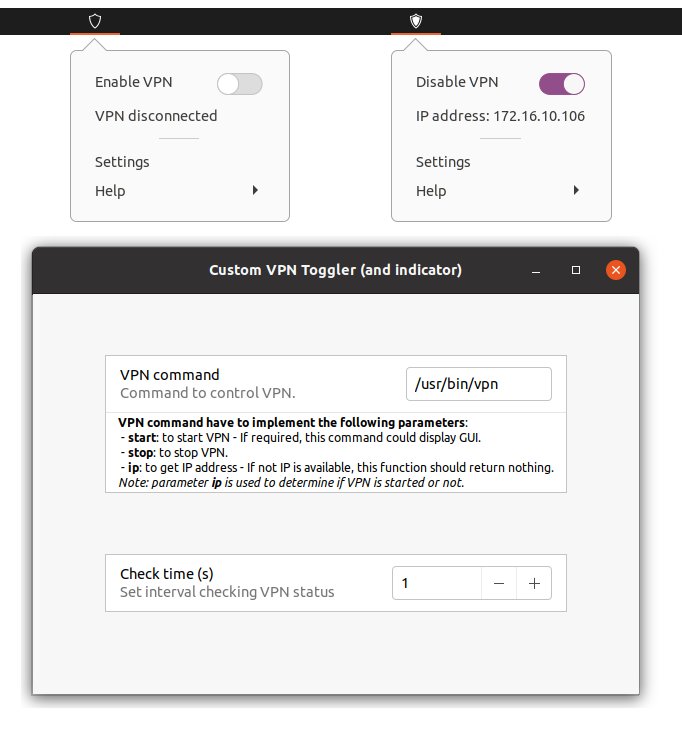
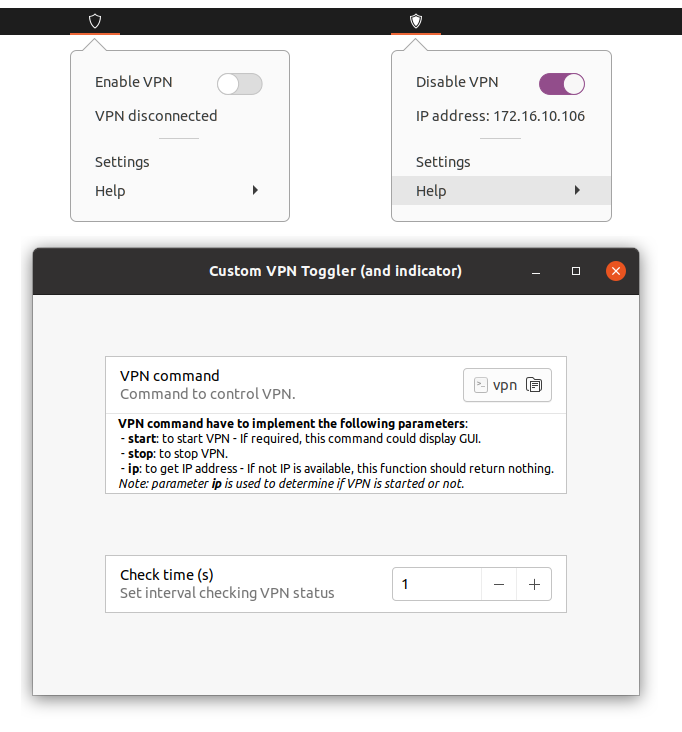
Use file browser to select vpn script

diff --git a/preferenceswidget.js b/preferenceswidget.js
@@ -28,7 +28,7 @@ imports.gi.versions.GLib = "2.0";
 imports.gi.versions.GObject = "2.0";
 imports.gi.versions.Gtk = "3.0";
 
-const {Gdk, Gio, GLib, GObject, Gtk} = imports.gi
+const { Gdk, Gio, GLib, GObject, Gtk } = imports.gi
 
 String.format = imports.format.format;
 
@@ -40,10 +40,10 @@ const _ = Gettext.gettext;
 
 var ColorSetting = GObject.registerClass(
     {
-        GTypeName: (Extension.uuid + '.ColorSetting').replace(/[\W_]+/g,'_')
+        GTypeName: (Extension.uuid + '.ColorSetting').replace(/[\W_]+/g, '_')
     },
-    class ColorSetting extends Gtk.Button{
-        _init(settings, keyName, params={}) {
+    class ColorSetting extends Gtk.Button {
+        _init(settings, keyName, params = {}) {
             super._init({
                 can_focus: true,
                 width_request: 132,
@@ -58,23 +58,23 @@ var ColorSetting = GObject.registerClass(
             this.background_color.parse(string_color);
 
             this.drawingArea = new Gtk.DrawingArea();
-            this.drawingArea.connect('draw', (widget, cr)=>{
+            this.drawingArea.connect('draw', (widget, cr) => {
                 cr.setSourceRGBA(this.background_color.red,
-                                 this.background_color.green,
-                                 this.background_color.blue,
-                                 this.background_color.alpha);
+                    this.background_color.green,
+                    this.background_color.blue,
+                    this.background_color.alpha);
                 cr.rectangle(0,
-                             0,
-                             this.get_allocated_width(),
-                             this.get_allocated_height());
+                    0,
+                    this.get_allocated_width(),
+                    this.get_allocated_height());
                 cr.fill();
             });
             this.add(this.drawingArea);
 
-            this.connect('clicked', ()=>{
+            this.connect('clicked', () => {
                 let color_dialog = new Gtk.ColorChooserDialog();
                 color_dialog.set_rgba(this.background_color);
-                if(color_dialog.run() == Gtk.ResponseType.OK){
+                if (color_dialog.run() == Gtk.ResponseType.OK) {
                     this.background_color = color_dialog.get_rgba();
                     settings.set_value(
                         keyName,
@@ -91,9 +91,9 @@ var ColorSetting = GObject.registerClass(
 /** A Gtk.Switch subclass for boolean GSettings. */
 var BoolSetting = GObject.registerClass(
     {
-        GTypeName: (Extension.uuid + '.BoolSetting').replace(/[\W_]+/g,'_')
+        GTypeName: (Extension.uuid + '.BoolSetting').replace(/[\W_]+/g, '_')
     },
-    class BoolSetting extends Gtk.Switch{
+    class BoolSetting extends Gtk.Switch {
         _init(settings, keyName) {
             super._init({
                 can_focus: true,
@@ -111,7 +111,7 @@ var EnumSetting = GObject.registerClass(
     {
         GTypeName: (Extension.uuid + '.EnumSetting').replace(/[\W_]+/g, '_')
     },
-    class EnumSetting extends Gtk.ComboBoxText{
+    class EnumSetting extends Gtk.ComboBoxText {
 
         _init(settings, keyName) {
             super._init({
@@ -147,8 +147,8 @@ var FlagsSetting = GObject.registerClass(
     {
         GTypeName: (Extension.uuid + '.FlagsSetting').replace(/[\W_]+/g, '_')
     },
-    class FlagsSetting extends Gtk.MenuButton{
-        _init(settings, keyName, params={}) {
+    class FlagsSetting extends Gtk.MenuButton {
+        _init(settings, keyName, params = {}) {
             if (!params.icon) {
                 params.icon = new Gtk.Image({
                     icon_name: "checkbox-checked-symbolic",
@@ -206,7 +206,7 @@ var MaybeSetting = GObject.registerClass(
     {
         GTypeName: (Extension.uuid + '.MaybeSetting').replace(/[\W_]+/g, '_')
     },
-    class MaybeSetting extends Gtk.Button{
+    class MaybeSetting extends Gtk.Button {
 
         _init(settings, keyName) {
             super._init({
@@ -289,7 +289,7 @@ var NumberSetting = GObject.registerClass(
     {
         GTypeName: (Extension.uuid + '.NumberSetting').replace(/[\W_]+/g, '_')
     },
-    class NumberSetting extends Gtk.SpinButton{
+    class NumberSetting extends Gtk.SpinButton {
 
         _init(settings, keyName, type) {
             super._init({
@@ -323,7 +323,7 @@ var NumberSetting = GObject.registerClass(
             } else if (type === "t") {
                 throw TypeError("Can't map 64 bit numbers");
                 [lower, upper] = [0, GLib.MAXUINT64];
-            // TODO: not sure this is working
+                // TODO: not sure this is working
             } else if (type === "d") {
                 [lower, upper] = [2.3E-308, 1.7E+308];
             }
@@ -349,7 +349,7 @@ var RangeSetting = GObject.registerClass(
     {
         GTypeName: (Extension.uuid + '.RangeSetting').replace(/[\W_]+/g, '_')
     },
-    class RangeSetting extends Gtk.Scale{
+    class RangeSetting extends Gtk.Scale {
 
         _init(settings, keyName) {
             super._init({
@@ -387,7 +387,7 @@ var StringSetting = GObject.registerClass(
     {
         GTypeName: (Extension.uuid + '.StringSetting').replace(/[\W_]+/g, '_')
     },
-    class StringSetting extends Gtk.Entry{
+    class StringSetting extends Gtk.Entry {
 
         _init(settings, keyName) {
             super._init({
@@ -438,11 +438,35 @@ var FolderSetting = GObject.registerClass(
     {
         GTypeName: (Extension.uuid + '.FolderSetting').replace(/[\W_]+/g, '_')
     },
-    class FolderSetting extends Gtk.FileChooserButton{
+    class FolderSetting extends Gtk.FileChooserButton {
 
         _init(settings, keyName) {
             super._init({
                 action: Gtk.FileChooserAction.SELECT_FOLDER,
+                can_focus: true,
+                halign: Gtk.Align.END,
+                valign: Gtk.Align.CENTER,
+                visible: true
+            });
+
+            this.set_filename(settings.get_string(keyName));
+            this.connect("file-set", (button) => {
+                settings.set_string(keyName, this.get_filename());
+            });
+        }
+    }
+);
+
+/** A Gtk.FileChooserButton subclass for file GSettings */
+var FileSetting = GObject.registerClass(
+    {
+        GTypeName: (Extension.uuid + '.FileSetting').replace(/[\W_]+/g, '_')
+    },
+    class FileSetting extends Gtk.FileChooserButton {
+
+        _init(settings, keyName) {
+            super._init({
+                action: Gtk.FileChooserAction.OPEN,
                 can_focus: true,
                 halign: Gtk.Align.END,
                 valign: Gtk.Align.CENTER,
@@ -462,7 +486,7 @@ var OtherSetting = GObject.registerClass(
     {
         GTypeName: (Extension.uuid + '.OtherSetting').replace(/[\W_]+/g, '_')
     },
-    class OtherSetting extends Gtk.Entry{
+    class OtherSetting extends Gtk.Entry {
 
         _init(settings, keyName) {
             super._init({
@@ -509,9 +533,9 @@ var Row = GObject.registerClass(
     {
         GTypeName: (Extension.uuid + '.Row').replace(/[\W_]+/g, '_')
     },
-    class Row extends Gtk.ListBoxRow{
+    class Row extends Gtk.ListBoxRow {
 
-        _init(params={}) {
+        _init(params = {}) {
             params = Object.assign({
                 activatable: false,
                 can_focus: false,
@@ -549,7 +573,7 @@ var Setting = GObject.registerClass(
     {
         GTypeName: (Extension.uuid + '.Setting').replace(/[\W_]+/g, '_')
     },
-    class Setting extends Row{
+    class Setting extends Row {
 
         _init(summary, description, widget) {
             super._init({ height_request: 56 });
@@ -586,8 +610,8 @@ var Section = GObject.registerClass(
     {
         GTypeName: (Extension.uuid + '.Section').replace(/[\W_]+/g, '_')
     },
-    class Section extends Gtk.Frame{
-        _init(params={}){
+    class Section extends Gtk.Frame {
+        _init(params = {}) {
             params = Object.assign({
                 width_request: 460,
                 selection_mode: Gtk.SelectionMode.NONE,
@@ -610,7 +634,7 @@ var Section = GObject.registerClass(
             this.list.set_header_func(this._header_func);
         }
 
-        _header_func(row, before){
+        _header_func(row, before) {
             if (before) {
                 row.set_header(
                     new Gtk.Separator({ orientation: Gtk.Orientation.HORIZONTAL })
@@ -623,8 +647,8 @@ var Section = GObject.registerClass(
          * @param {Gtk.ListBoxRow|Row} [row] - The row to add, null to create new
          * @return {Gtk.ListBoxRow} row - The new row
          */
-        addRow(row, params={}) {
-            if (!row) { row = new Row(params);}
+        addRow(row, params = {}) {
+            if (!row) { row = new Row(params); }
             this.list.add(row);
             return row;
         }
@@ -694,8 +718,8 @@ var Page = GObject.registerClass(
     {
         GTypeName: (Extension.uuid + '.Page').replace(/[\W_]+/g, '_')
     },
-    class Page extends Gtk.ScrolledWindow{
-        _init(params={}){
+    class Page extends Gtk.ScrolledWindow {
+        _init(params = {}) {
             params = Object.assign({
                 can_focus: true,
                 hscrollbar_policy: Gtk.PolicyType.NEVER,
@@ -722,7 +746,7 @@ var Page = GObject.registerClass(
          * @param {Section} [section] - The section to add, or null to create new
          * @return {Gtk.Frame} section - The new Section object.
          */
-        addSection(title, section, params={}){
+        addSection(title, section, params = {}) {
             if (typeof title === "string") {
                 let label = new Gtk.Label({
                     can_focus: false,
@@ -750,8 +774,8 @@ var Stack = GObject.registerClass(
     {
         GTypeName: (Extension.uuid + '.Stack').replace(/[\W_]+/g, '_')
     },
-    class Stack extends Gtk.Stack{
-        _init(params={}){
+    class Stack extends Gtk.Stack {
+        _init(params = {}) {
             params = Object.assign({
                 transition_type: Gtk.StackTransitionType.SLIDE_LEFT_RIGHT
             }, params);
@@ -763,13 +787,13 @@ var Stack = GObject.registerClass(
             this.switcher.show_all();
         }
 
-        addPage(id, title, params={}){
+        addPage(id, title, params = {}) {
             let page = new Page(params);
             this.add_titled(page, id, title);
             return page;
         }
 
-        removePage(id){
+        removePage(id) {
             let page = this.get_child_by_name(id);
             this.remove(page);
             page.destroy();

diff --git a/prefs.js b/prefs.js
@@ -47,7 +47,8 @@ var CustomVpnTogglerPreferencesWidget = GObject.registerClass(
             var settings = Convenience.getSettings();
 
             let indicatorSection = this.addSection("", null, {});
-            indicatorSection.addGSetting(settings, "vpn");
+            // var widget = new PreferencesWidget.FileSetting(settings, "vpn");
+            indicatorSection.addGSetting(settings, "vpn", PreferencesWidget.FileSetting);
             let help = new Gtk.Label({
                 label: "<small>" +
                     "<b>VPN command have to implement the following parameters</b>:\n" +

diff --git a/README.md b/README.md
@@ -53,11 +53,12 @@ fi
 
 ## To do
 
-* Icon: Draw red icon if script is not configured or not reachable.
-* Menu: Invite user to setup script if not done yet.
-* Pref: Do not pre-configure script. 
-* Pref: Add browsing to defined script.
+* Perf: Do not perform update when status doesn't change
 * Pref: Warn if script is not present.
+* Menu: Copy IP Address in clipboard when clicking on menu.
+* Menu: Notify that address is available in clipboard.
+* Pref: Allow to disable notification when address is copied in clipboard.
+ 
 
 ## License and thanks
 
